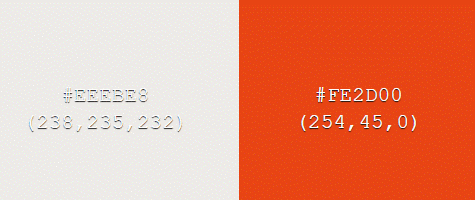
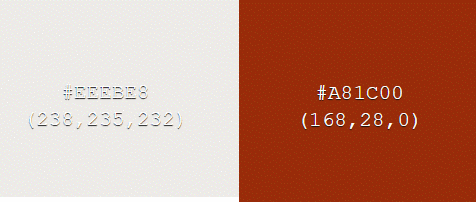
Add testing info

diff --git a/README.md b/README.md
@@ -117,7 +117,7 @@ In short it's a sort of hub for anyone familiar, or wanting to get familiar with
 - To achieve the darker theme every page features shade of woodsmoke as the background. \
 ![Background color](readme-assets/background-hex.png)
 
-- Furthermore the site incorporates some staple racing colors, such as the very vibrant, scarlet red navigation bar, combined with the white text. \
+- Furthermore the site incorporates some staple racing colors, such as the very vibrant, milano red navigation bar, combined with the white text. \
 ![Navbar colors](readme-assets/navbar-hex.png)
 
 - Most element borders feature 1 of 2 different shades an olive haze color which aims to provide an organic looking seperation of content. \
@@ -163,7 +163,7 @@ In short it's a sort of hub for anyone familiar, or wanting to get familiar with
 
     - On mobile devices the navbar turns into a collapsable menu through the intuitive and familiar burger menu.
 
-    - Features a very mute text letting the user know if they're logged in and who they are logged in as.
+    - Features a slightly mute text letting the user know if they're logged in and who they are logged in as.
         <details>
         <summary>
             Navigation images
@@ -449,6 +449,12 @@ In short it's a sort of hub for anyone familiar, or wanting to get familiar with
             <p><img src="readme-assets/manual-approve-url.png" alt="manual url to request approval"></p>
             <p><img src="readme-assets/unauth-approve-request.png" alt="response for unauthorized approval request"></p>
             </details>
+
+- **Footer**
+    - Featured at the bottom of the page is a footer with the goal of completing the full "frame" of the page.
+
+    - The footer features a short string of info about the creator of the site as well as a GitHub icon serving as a link to the creators GitHub profile.
+
 ### Future Features
 - A necessary future feature if the scale of this project aims to be increased to a larger user base would be to change the channel layers for the live chat to be stored on something like a Redis server as opposed to the current earlier small scale implementation that uses InMemoryChannelLayer.
 
@@ -535,18 +541,214 @@ An authenticated user can delete any of their contributions made to the site.
 
 #### HTML [W3C validator](https://validator.w3.org/)
 
+- **Home page**
+
+    - No errors or warnings returned upon validation.
+
+- **Calendar page**
+
+    - No errors or warnings returned upon validation.
+
+- **Event details page**
+
+    - One error type is shown, it regards the obsolote HTML font element. The font element is just what summernote uses when producing the formatted text from the summernote editor in the admin panel. This element is applied to each heading and paragraph. See [this reply](https://github.com/summernote/summernote/issues/2005#issuecomment-542490245) for reference. [This issue](https://github.com/summernote/summernote/projects/2#card-50662209) was added to the summernote project board back in 2020 and is still present in the to-do column.
+        <details>
+        <summary>
+            Validator error description.
+        </summary>
+        <p><img src="readme-assets/oboslete-font-element.png" alt="validator output"></p>
+        </details>
+
+- **Event details page with editing toggled**
+    
+    - Other than the same font element errors as mentioned above no errors or warning are returned upon validation.
+
+- **Sign out page**
+
+    - No errors or warnings returned upon validation.
+
+- **Sign in page**
+
+    - No errors or warnings returned upon validation.
+
+- **Sign up page**
+
+    - 
+
 
 #### CSS [Jigsaw](https://jigsaw.w3.org/css-validator/)
+
+- **calendar.css**
+
+    - No errors or warnings returned upon validation.
+
+- **event_details.css**
+
+    - No errors or warnings returned upon validation.
+
+
+- **home.css**
+
+    - No errors or warnings returned upon validation.
+
+- **style.css**
+
+    - No errors returned upon validation.
+
+    - 4 warnings are shown. 2 in regards to the use of the vendor extended pseudo-elements:
+        ```css
+        ::-webkit-scrollbar ::-webkit-scrollbar-thumb
+        ```
+
+        - These are used to allow browsers utilising the legacy scrollbar styling to also work.
+
+    - 1 in regards to a vendor extension:
+        ```css
+        -moz-osx-font-smoothing
+        ```
+        - Part of the hover.css usage.
+    
+    - 1 in regards to imports not being validated.
+
+        - Google fonts.
+        <details>
+        <summary>
+            Validator warning description.
+        </summary>
+        <p><img src="readme-assets/webkit-warnings.png" alt="validator output"></p>
+        </details>
 
 
 #### JavaScript [JSHint](https://jshint.com/) 
 
+- **event_details.js**
+
+    - No errors returned upon validation.
+
+    - 1 warning of an undefined variable:
+        ```javascript
+        csrftoken
+        ```
+        - This variable is defined in the template using DTL to get the csrf token. So a false positive warning.
+
+- **live_chat.js**
+
+    - No errors returned upon validation.
+
+    - 1 warning of an undefined variable:
+        ```javascript
+        username
+        ```
+        - This variable is defined in the template using DTL to get the the users username. So a false positive warning.
+    
 
 #### Python [CI Python Linter](https://pep8ci.herokuapp.com/)
+Any .py file where custom code has been written or added has been checked Code Institutes pep8 linter.
 
+This is a result from a file with no errors, any file marked with "No errors found." will have had the same result: \
+![No errors found from CI linter](readme-assets/ci-linter-no-errors.png)
+
+- **event_details/admin.py**
+
+    - No errors found.
+
+- **event_details/forms.py**
+
+    - No errors found.
+
+- **event_details/models.py**
+
+    - No errors found.
+
+- **event_details/test_forms.py**
+
+    - No errors found.
+
+- **event_details/test_views.py**
+
+    - No errors found.
+
+- **event_details/urls.py**
+
+    - No errors found.
+
+- **event_details/views.py**
+
+    - No errors found.
+
+- **f1_town_square/users/adapter.py**
+
+    - No errors found.
+    
+- **f1_town_square/asgi.py**
+
+    - No errors found.
+    
+- **f1_town_square/middleware.py**
+
+    - No errors found.
+    
+- **f1_town_square/settings.py**
+
+    - No errors found.
+    
+- **f1_town_square/urls.py**
+
+    - No errors found.
+    
+- **town_square/admin.py**
+
+    - No errors found.
+        
+- **town_square/consumers.py**
+
+    - No errors found.
+        
+- **town_square/models.py**
+
+    - No errors found.
+        
+- **town_square/routing.py**
+
+    - No errors found.
+        
+- **town_square/urls.py**
+
+    - No errors found.
+        
+- **town_square/views.py**
+
+    - No errors found.
 
 #### Accessibility [axe DevTools Chrome Extension](https://chrome.google.com/webstore/detail/axe-devtools-web-accessib/lhdoppojpmngadmnindnejefpokejbdd)
 
+- Contrast errors navbar (5).
+
+    - Fix: Adjust the navbar background color (#fe2d00) to a darker shade of red (#A81C00).
+
+- Contrast error for edit buttons.
+
+    - Fix: Adjust the orange background color of the edit-btn class from (#c78100) to (#a15600).
+
+- Event details circuit stats seen as possible headings (4).
+
+    - Fix: Swap the stats to spans from paragraphs, and give stat heading h3 tags.
+
+- Contrast error on default blue hyperlinks.
+
+    - Fix: Change the hyperlink text color to (#4DA9FF).
+
+- Contrast error on connected to live chat message.
+
+    - Fix: Replace bs-text-success to a class with a slightly brighter green (#24C67B).
+
+- Alert for unintuitive alt on calendar images.
+
+    - Fix: Utilise DTL to create unique alts for every circuit image.
+
+- I've left one type of alert unattended. The alert if for redundant links, or multiple links leading to the same destination within the same page.
+
+    - This alert is triggered simply because the navbar is present on every page. So for pages that feature a log in prompt to access a feature such as leaving a comment the sign in url can be found in the prompt as well as the navbar.
 
 #### Performance, Accessibility, SEO, Best Practices (Lighthouse Chrome DevTools)
 
